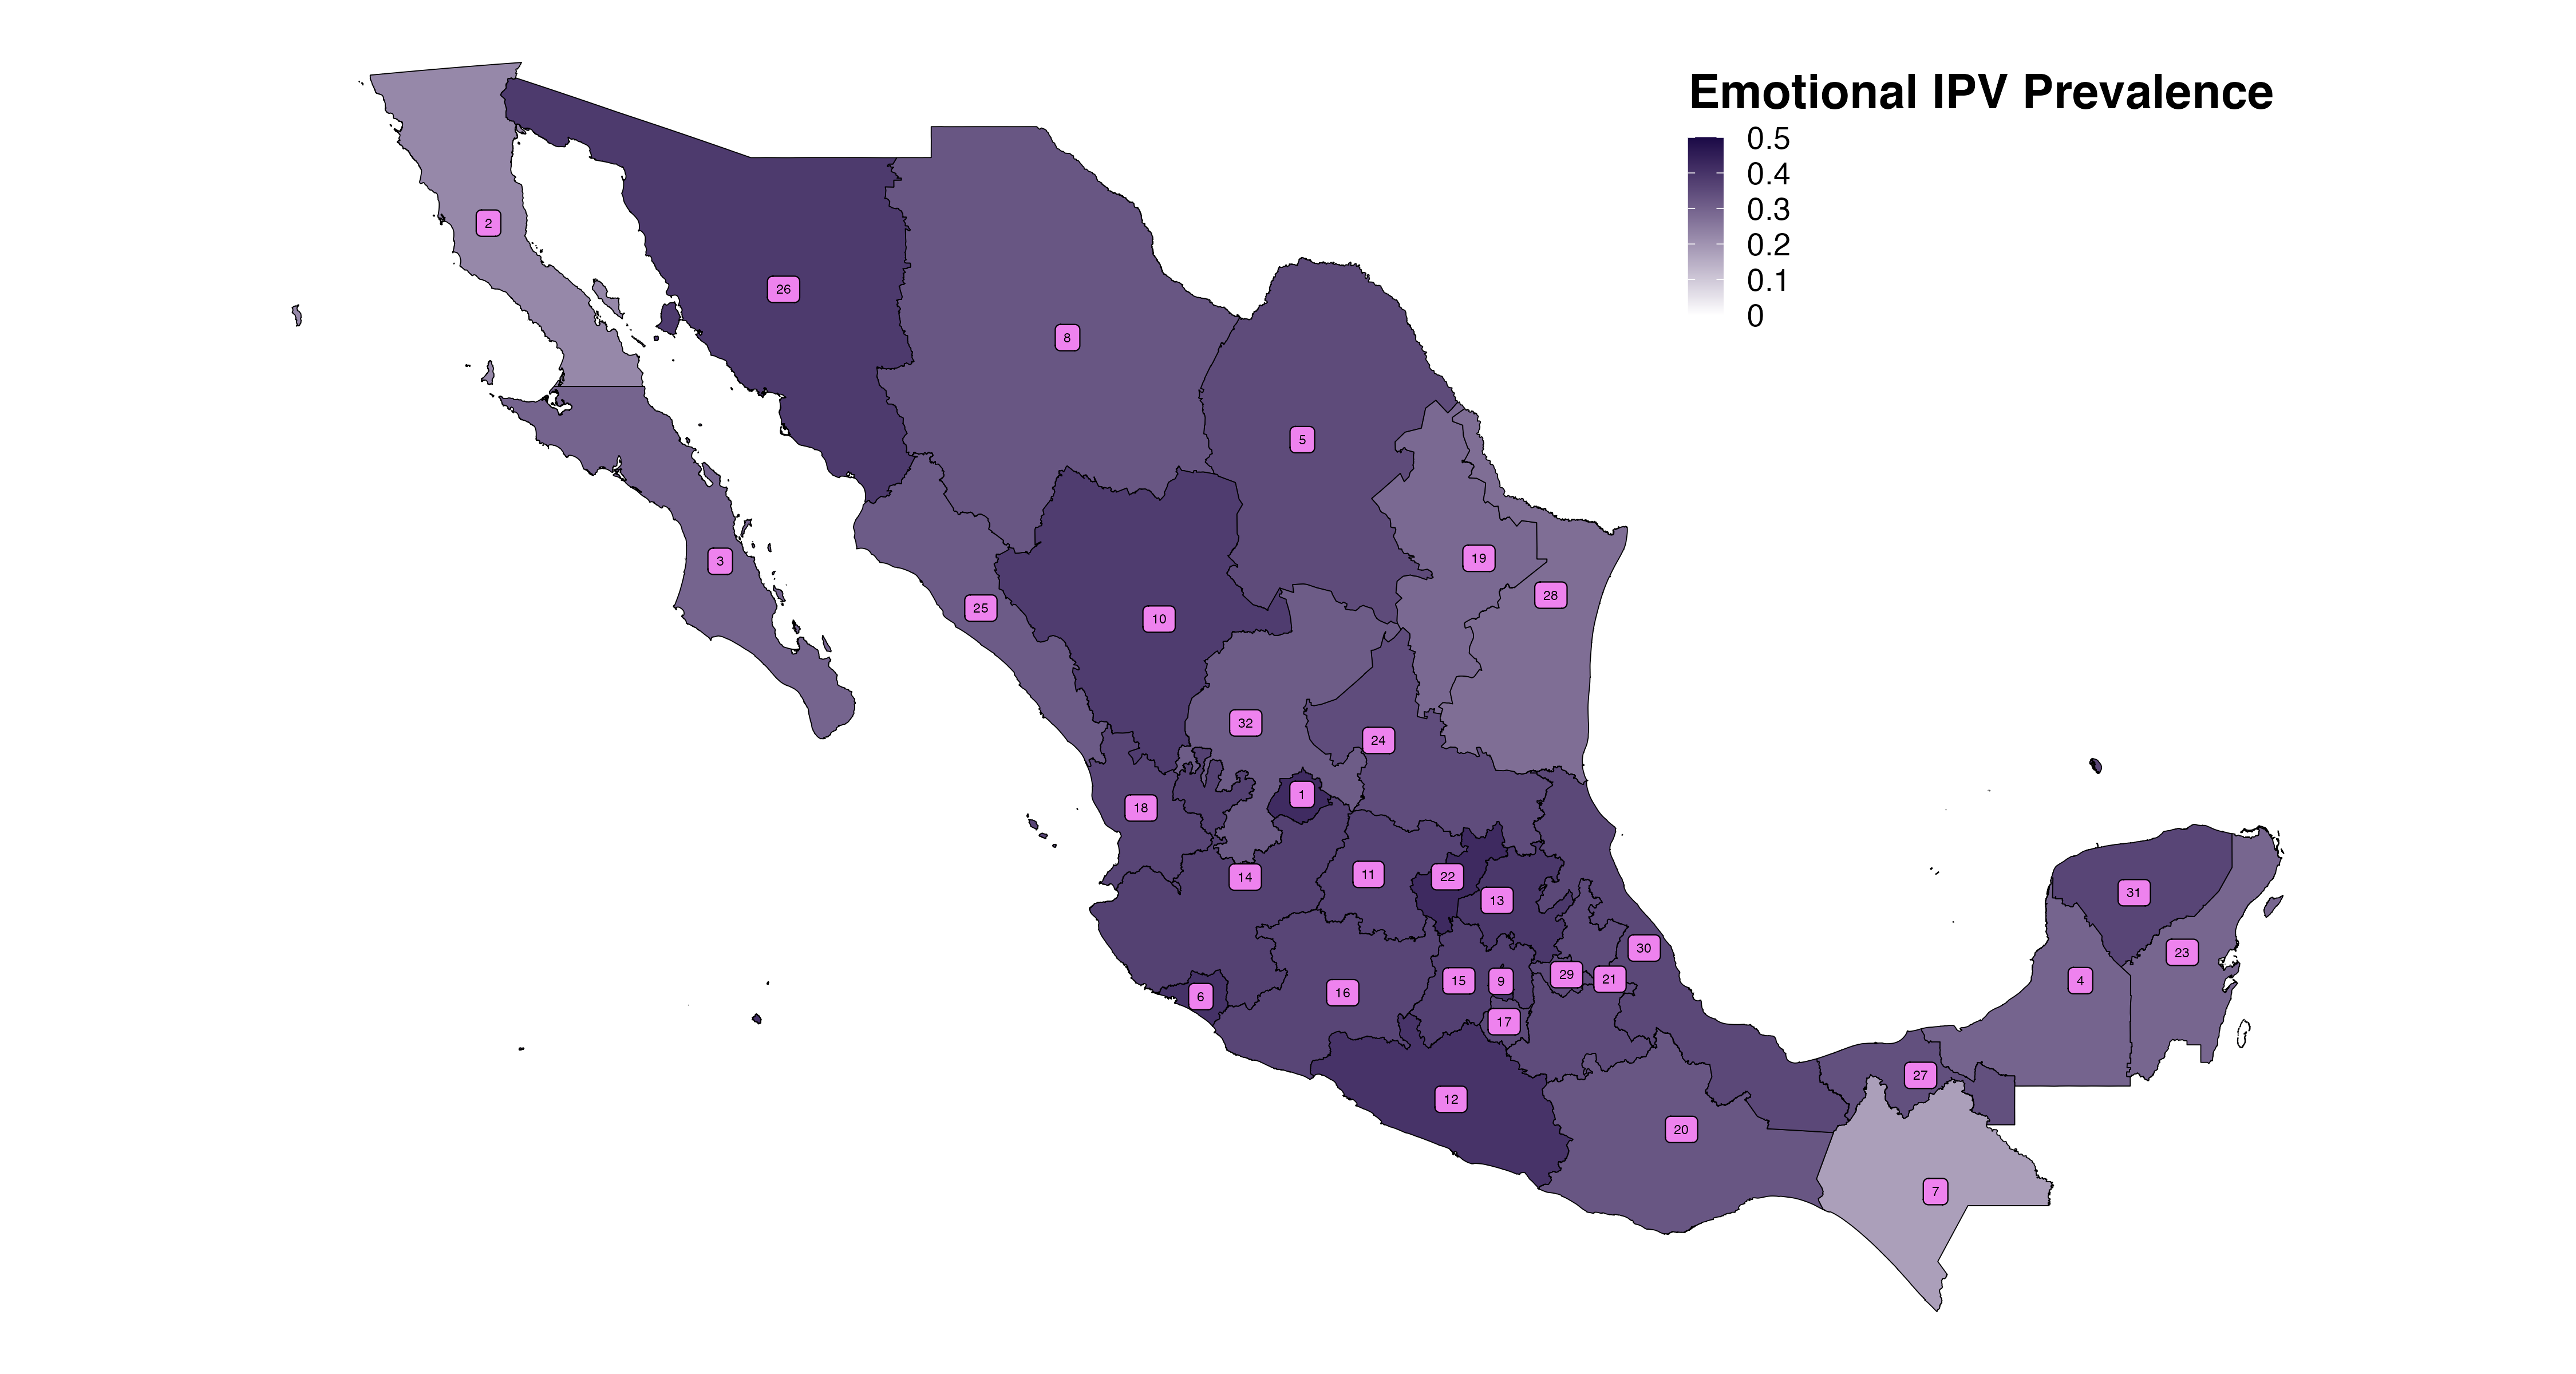
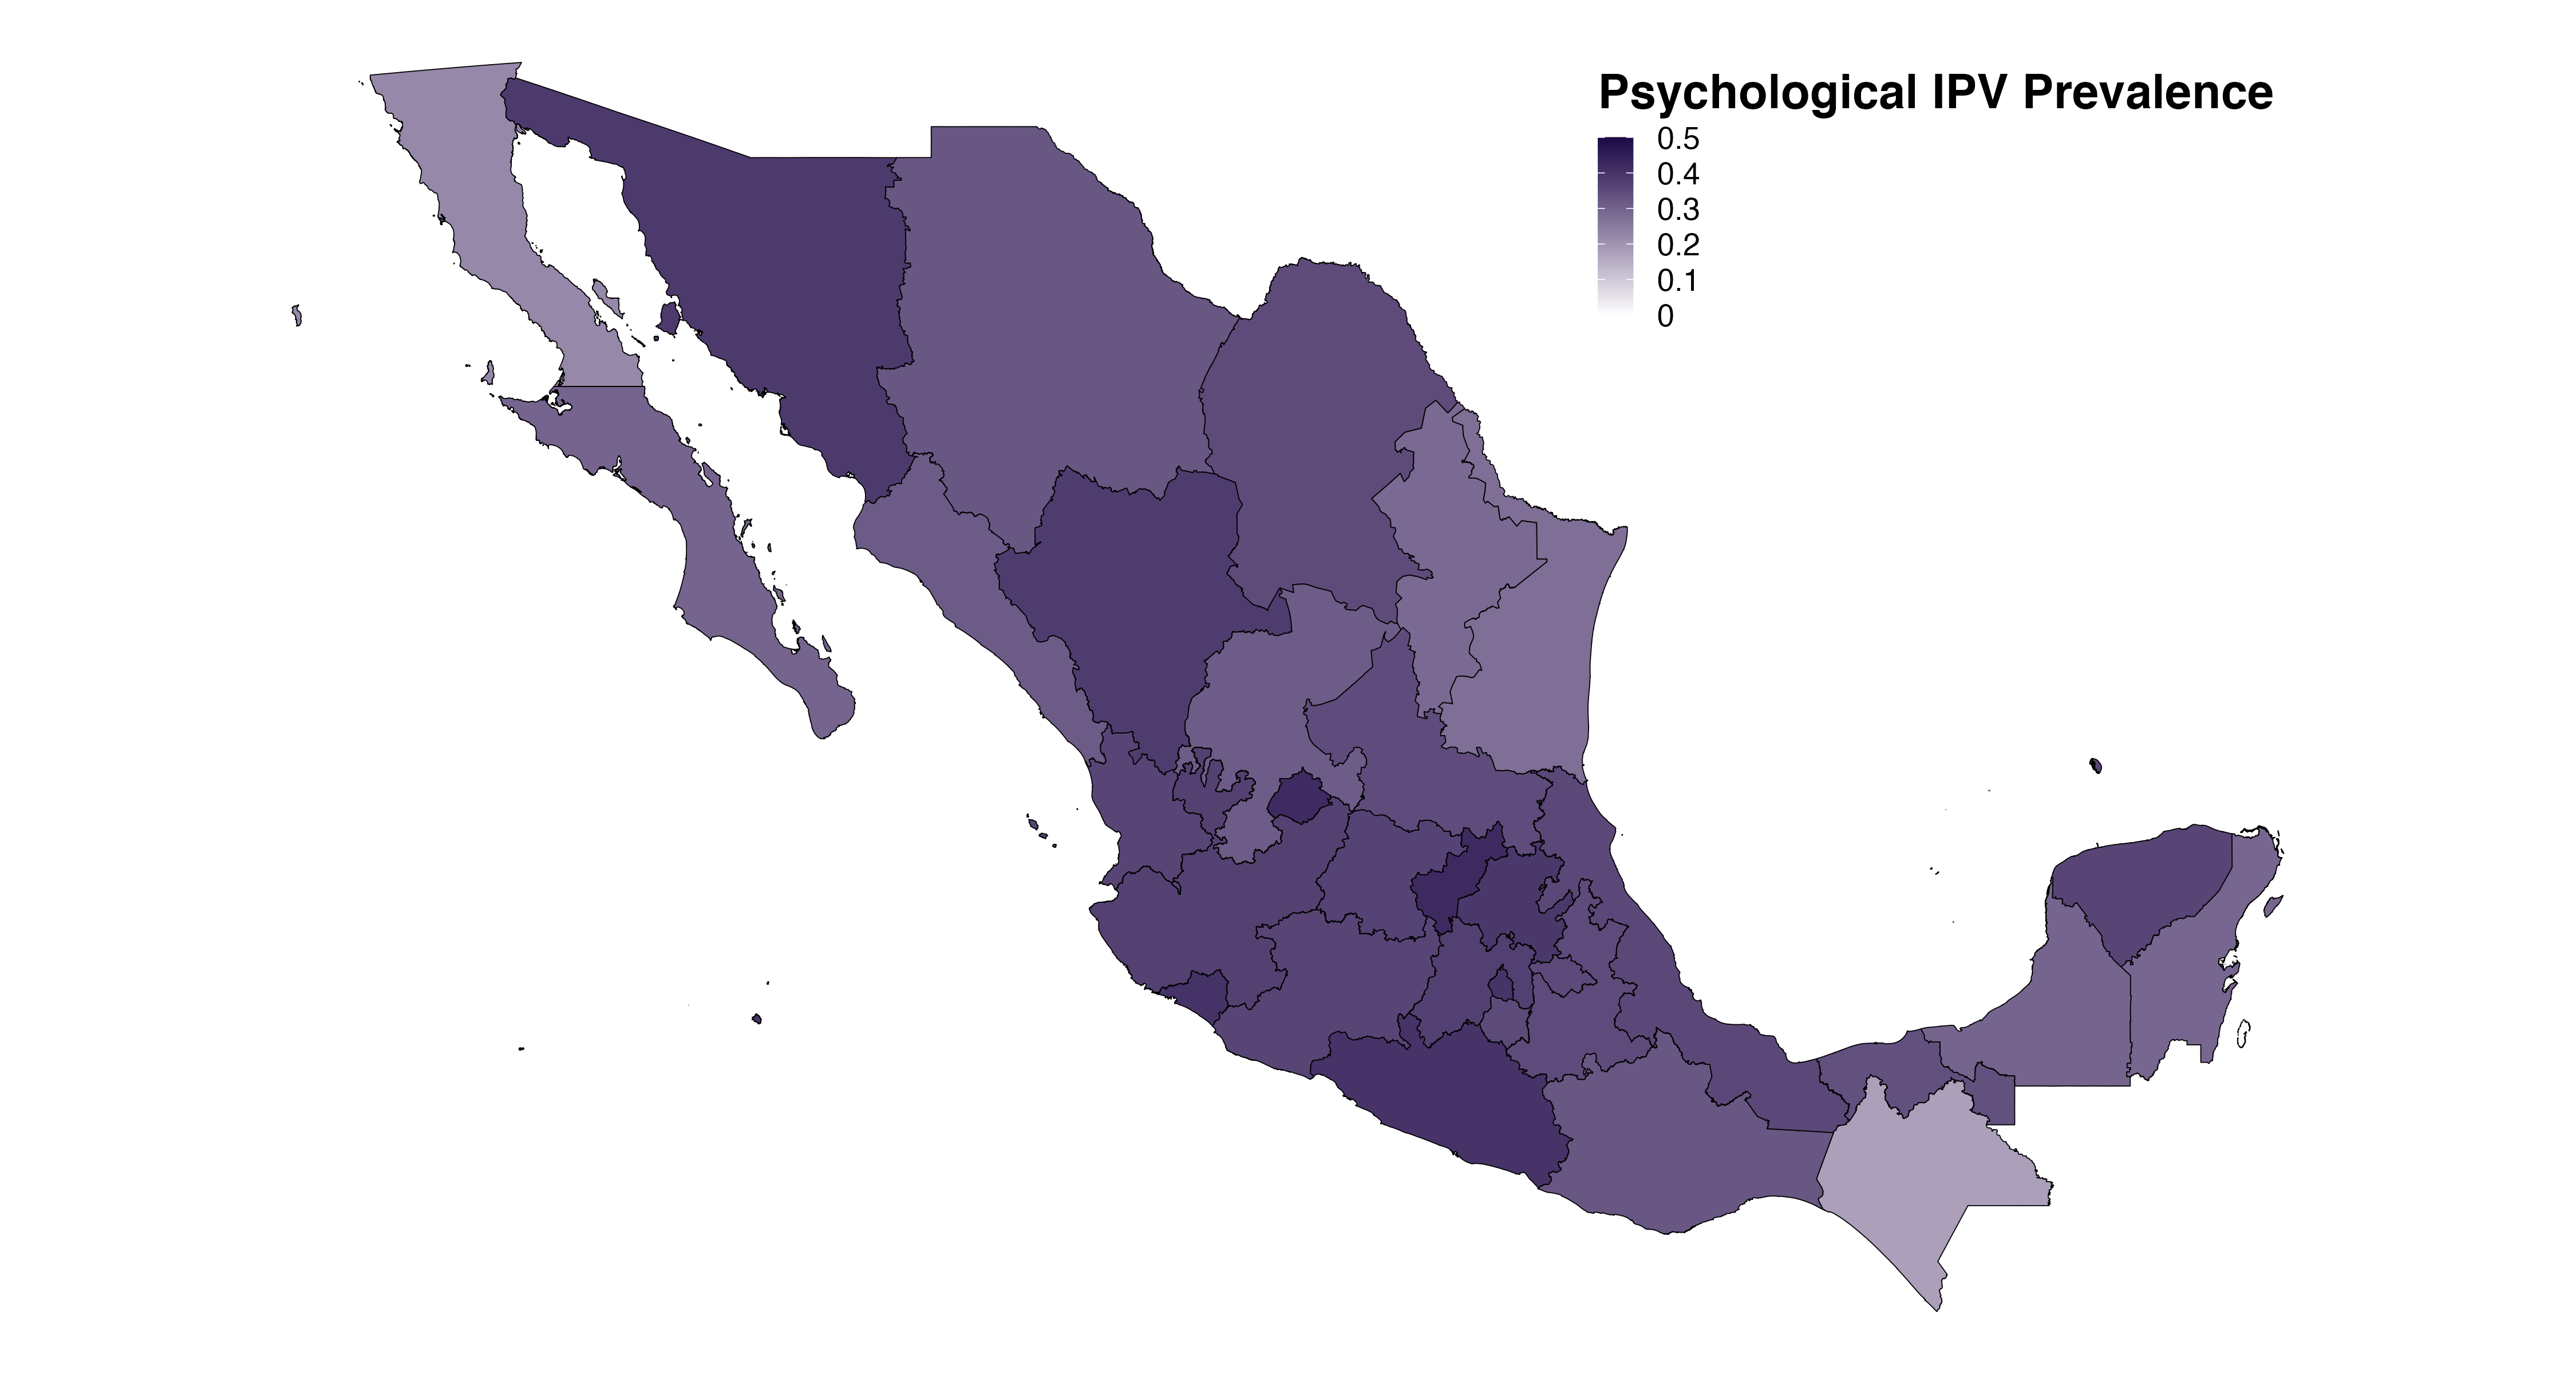
newest changes

diff --git a/README.md b/README.md
@@ -1,2 +1,38 @@
 # ipv_risk_factors
 Identification of risk factors for intimate partner violence (IPV) against women with children in Mexico. This project is based on Munguia and Martinez-Zarzoso (2022) and ENDIREH 2021. This project was created for my master thesis.
+
+# Structure
+
+# data:
+
+to do: three data sets have to be put into a folder!
+
+final_data: contains the final data sets
+ipv: contains the values of the different outcome variables
+prep_data: data sets after each prep step for imputed data
+prep_data: data sets after each prep step for non-imputed data
+risk_factors: contains the values for the risk factors at each level of the ecological model
+
+# functions:
+
+functions that are used for the anaylsis
+maybe add source?
+
+renv:
+package versions,
+maybe add which commands are necessary when loading the project and 
+
+# results:
+
+results for:
+- effect estimates
+- partial effect plots
+- plots 
+- tables
+
+
+
+# src: here the analysis occurs
+
+# data: create the data set
+